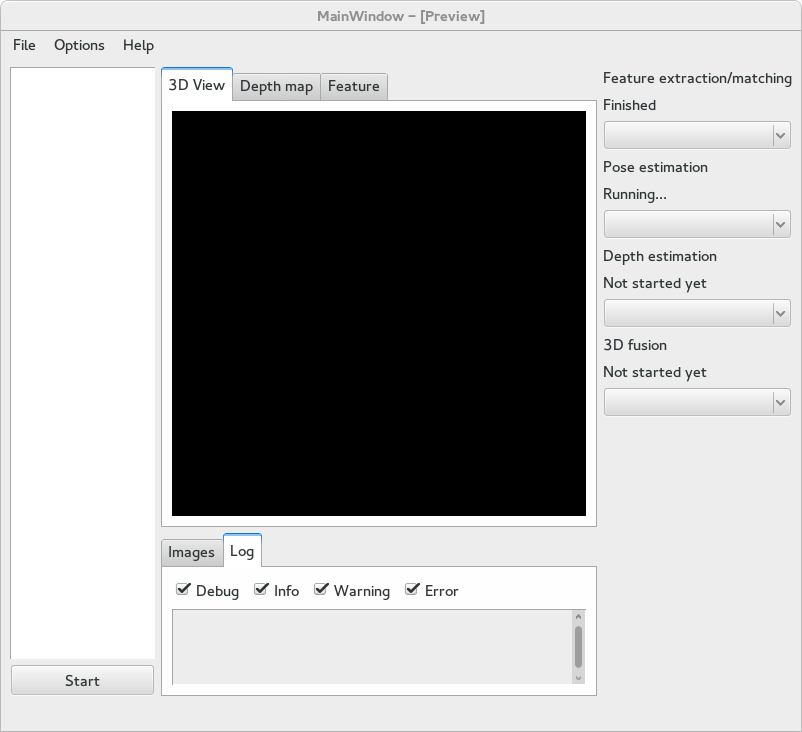
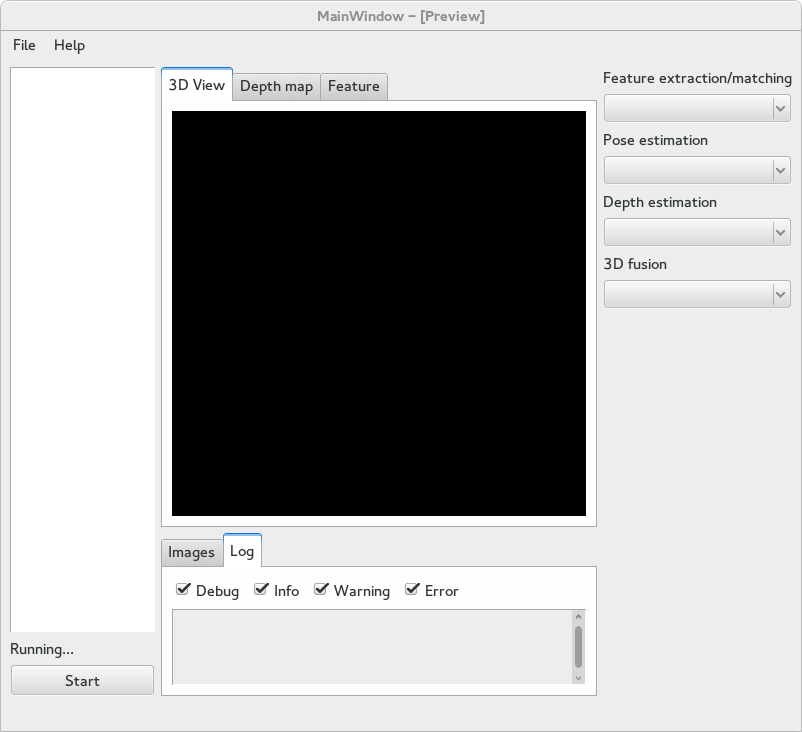
Benutzeroberfläche gemäß aktuellen Kriterien angepasst und Beschreibung im Pflichtenheft ergänzt.

diff --git a/doc/Pflichtenheft/include/benutzeroberflaeche.tex b/doc/Pflichtenheft/include/benutzeroberflaeche.tex
@@ -16,7 +16,7 @@ In diesem Kapitel werden die Anforderungen an die Benutzeroberfläche genannt un
 	\item \textbf{Bilderinput} Über den Eintrag „File → Load images...“ in der Menüleiste können Bilder als Eingabe der Algorithmen ausgewählt werden.
 	\item \textbf{Bildervorschau} \label{B10Bildervorschau} Die Bilder, die als Eingabe für die Algorithmen gewählt worden sind, werden in einer Vorschau als Thumbnails angezeigt. In der Vorschau können einzelne oder mehrere Bilder ausgewählt werden, so dass sie in \ref{B10AnsichtsauswahlFeatures} dargestellt werden.
 	\item \textbf{Starten} \label{B10Starten} Ein Button soll den Start der Ausführung der ausgewählten Algorithmen ermöglichen.
-	\item \textbf{Arbeitsindikator} Pro Algorithmus wird dem Benutzer durch ein Symbol oder einen Text angezeigt, ob der Algorithmus gerade läuft.
+	\item \textbf{Arbeitsindikator} \label{B10Arbeitsindikator} Ein globaler Arbeitsindikator in der Form eines Symbols oder Texts zeigt dem Nutzer an, ob gerade Algorithmen in Ausführung sind.
 	\item \textbf{Stoppen} Über ein Button kann der Nutzer die Ausführung der Algorithmen anhalten.
 	\item \textbf{Ergebnisanzeige} Die Ergebnisse werden nach Möglichkeit zentral und groß dargestellt.
 	\item \textbf{Ansichtsauswahl} Der Nutzer soll zwischen folgenden Ansichten wählen können:
@@ -53,4 +53,6 @@ Hinzugekommen ist:
 			\item \textbf{Textured} stellt das Mesh [\ref{B203DMesh}] inklusive der auf die Oberfläche gezeichneten Texturen da.
 		\end{enumerate}
 	\item \textbf{Mehrere Datensätze} Über eine Liste können mehrere Datensätze innerhalb einer Sitzung genutzt und verwaltet werden. Der Nutzer wird so in die Lage versetzt einen Workflow auf verschiedenen Eingabedaten zu evaluieren, ohne für jeden Test die Daten neu laden zu müssen.
+	\item \textbf{Arbeitsindikator pro Algorithmus} Pro Schritt eines Workflows stellt ein Symbol oder ein Text dar, ob der für den Schritt gewählte Algorithmus gerade ausgeführt wird. Die Implementierung dieses Punktes ersetzt \ref{B10Arbeitsindikator}.
+	\item \textbf{Globale Einstellungen} Über den Menüpunkt „Options → Settings...“ können globale Einstellungen gesetzt werden, falls sich solche im Laufe des Projektes ergeben. Globale Einstellungen sind Einstellungen, die für die gesamte Anwendung gelten und über das Ende der Sitzung gültig bleiben.
 \end{enumerate}
